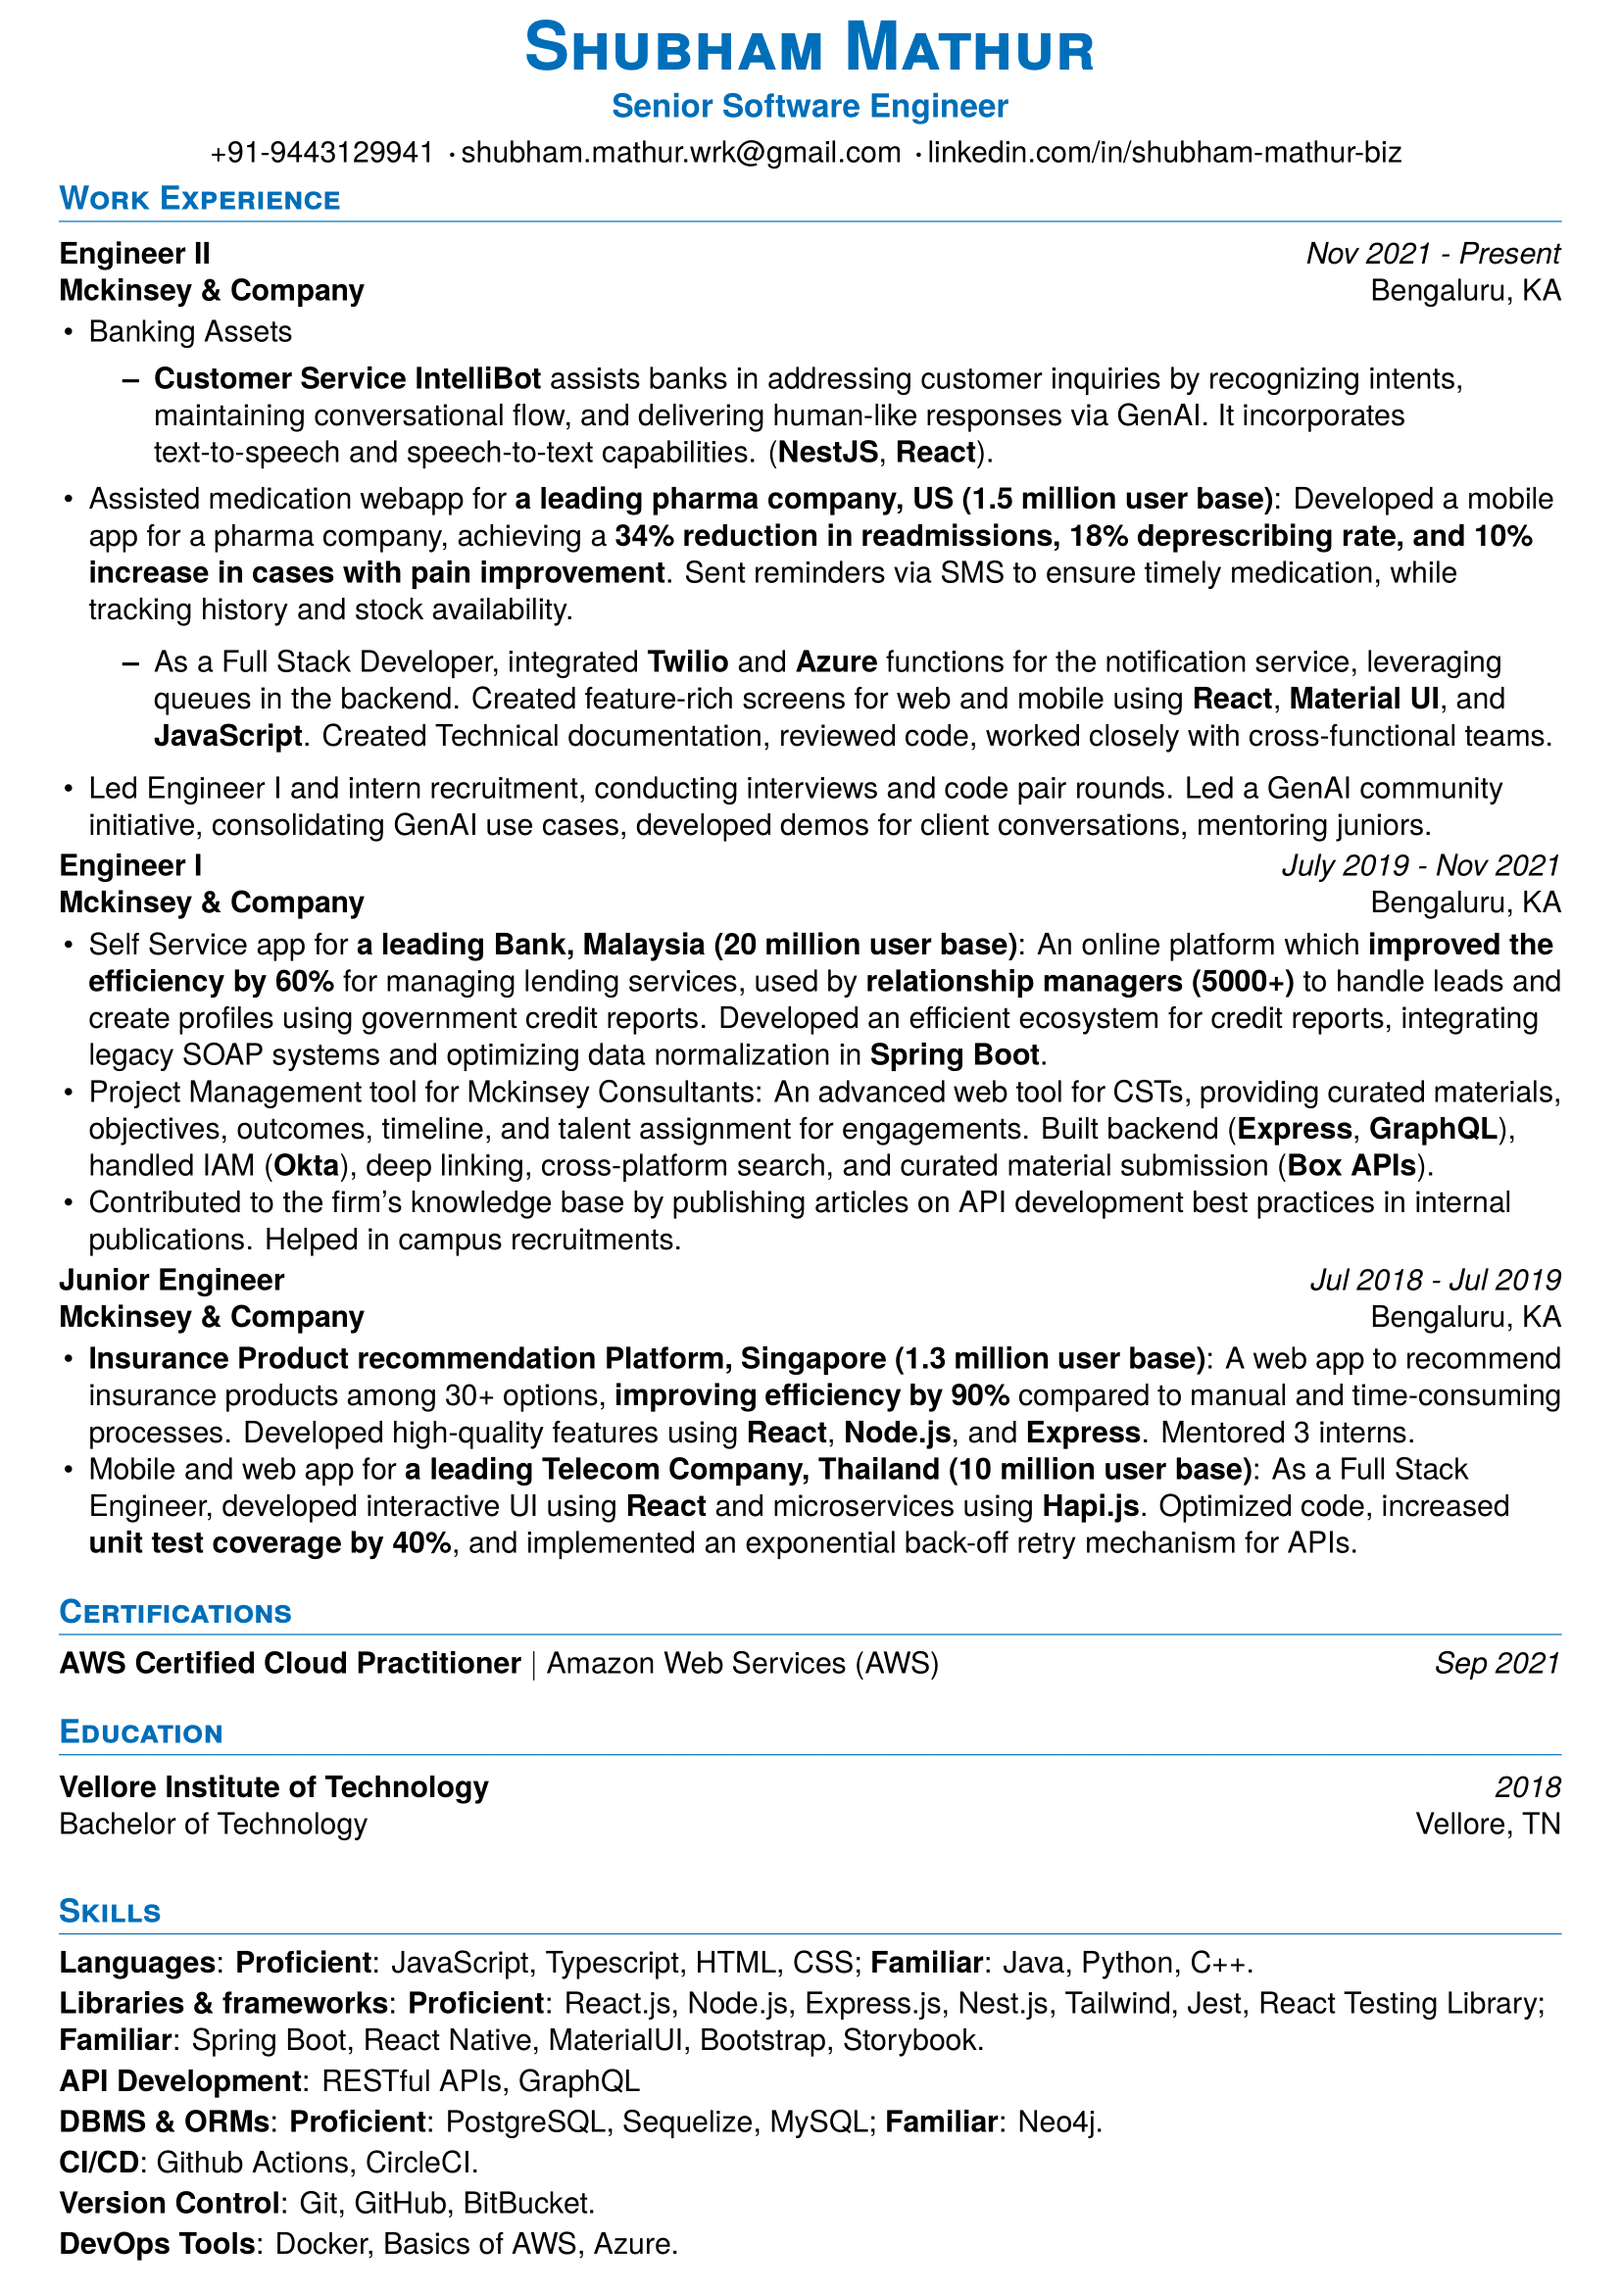
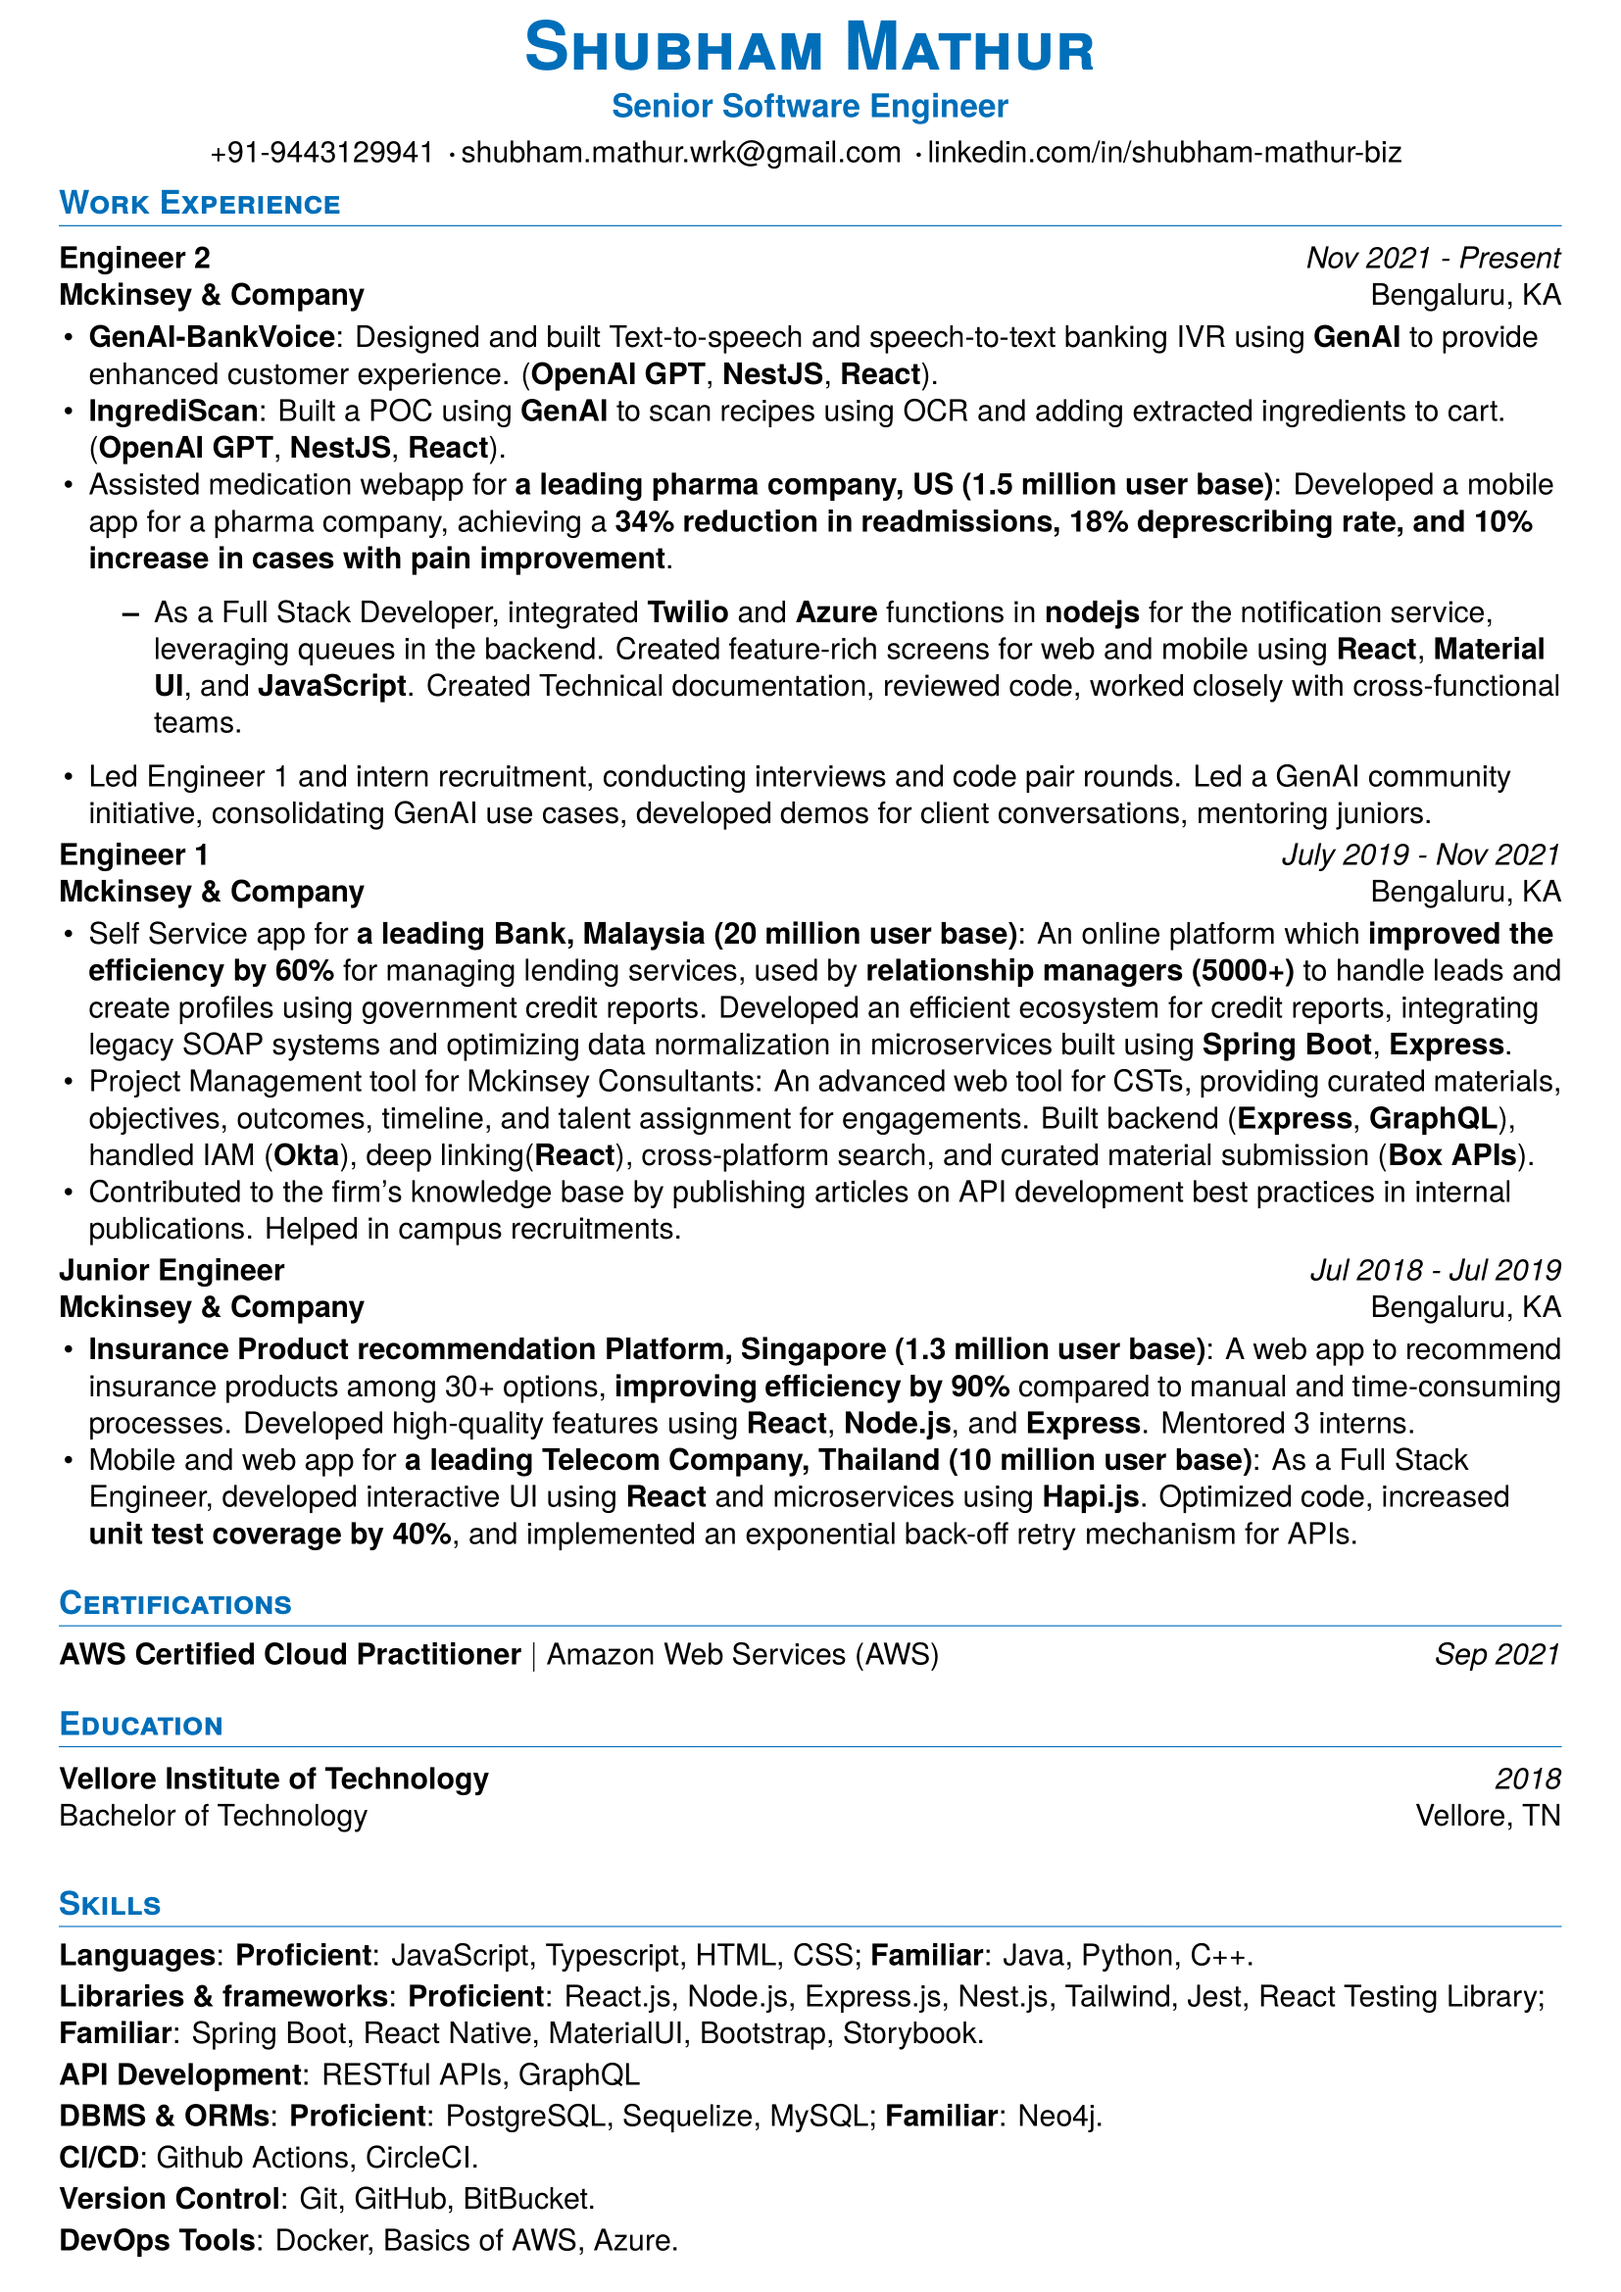
Update resume with GenAI work.

Changed region(s): [[0.0308, 0.0624, 0.9559, 0.9987], [0.8634, 0.7178, 0.9559, 0.8115], [0.8325, 0.8427, 0.9559, 0.8739]]

diff --git a/Shubham Mathur Resume 2023/professional_developer_template/main.tex b/Shubham Mathur Resume 2023/professional_developer_template/main.tex
@@ -18,32 +18,31 @@
 \section{\textcolor{NavyBlue}{Work Experience}}
 
 \WorkExperience
-    {\textbf{Engineer II}} % job title
+    {\textbf{Engineer 2}} % job title
     {\textbf{Mckinsey \& Company}} % company name
     {Nov 2021 - Present} % employment dates
     {Bengaluru, KA} % location
     {
-    \item{Banking Assets}
-        \begin{itemize}
-          \item{\textbf{Customer Service IntelliBot} assists banks in addressing customer inquiries by recognizing intents, maintaining conversational flow, and delivering human-like responses via GenAI. It incorporates text-to-speech and speech-to-text capabilities. (\textbf{NestJS}, \textbf{React}).}
-        \end{itemize}
-    \item{Assisted medication webapp for \textbf{a leading pharma company, US (1.5 million user base)}: Developed a mobile app for a pharma company, achieving a \textbf{34\% reduction in readmissions, 18\% deprescribing rate, and 10\% increase in cases with pain improvement}. Sent reminders via SMS to ensure timely medication, while tracking history and stock availability.}
+    \item{\textbf{GenAI-BankVoice}: Designed and built Text-to-speech and speech-to-text banking IVR using \textbf{GenAI} to provide enhanced customer experience. (\textbf{OpenAI GPT}, \textbf{NestJS}, \textbf{React}).}
+    \item{\textbf{IngrediScan}: Built a POC using \textbf{GenAI} to scan recipes using OCR and adding extracted ingredients to cart. (\textbf{OpenAI GPT}, \textbf{NestJS}, \textbf{React}).}
+    \item{Assisted medication webapp for \textbf{a leading pharma company, US (1.5 million user base)}: Developed a mobile app for a pharma company, achieving a \textbf{34\% reduction in readmissions, 18\% deprescribing rate, and 10\% increase in cases with pain improvement}.}
     
     \begin{itemize}
-        \item{As a Full Stack Developer, integrated \textbf{Twilio} and \textbf{Azure} functions for the notification service, leveraging queues in the backend. Created feature-rich screens for web and mobile using \textbf{React}, \textbf{Material UI}, and \textbf{JavaScript}. Created Technical documentation, reviewed code, worked closely with cross-functional teams.}
+        \item{As a Full Stack Developer, integrated \textbf{Twilio} and \textbf{Azure} functions in \textbf{nodejs} for the notification service, leveraging queues in the backend. Created feature-rich screens for web and mobile using \textbf{React}, \textbf{Material UI}, and \textbf{JavaScript}. Created Technical documentation, reviewed code, worked closely with cross-functional teams.}
 
     \end{itemize}
-        \item Led Engineer I and intern recruitment, conducting interviews and code pair rounds. Led a GenAI community initiative, consolidating GenAI use cases, developed demos for client conversations, mentoring juniors.
+        \item Led Engineer 1 and intern recruitment, conducting interviews and code pair rounds. Led a GenAI community initiative, consolidating GenAI use cases, developed demos for client conversations, mentoring juniors.
     } 
 
 \WorkExperience
-    {\textbf{Engineer I}} % job title
+    {\textbf{Engineer 1}} % job title
     {\textbf{Mckinsey \& Company}} % company name
     {July 2019 - Nov 2021} % employment dates
     {Bengaluru, KA} % location
 {
-    \item Self Service app for \textbf{a leading Bank, Malaysia (20 million user base)}: An online platform which \textbf{improved the efficiency by 60\%} for managing lending services, used by \textbf{relationship managers (5000+)} to handle leads and create profiles using government credit reports. Developed an efficient ecosystem for credit reports, integrating legacy SOAP systems and optimizing data normalization in \textbf{Spring Boot}.
-    \item Project Management tool for Mckinsey Consultants: An advanced web tool for CSTs, providing curated materials, objectives, outcomes, timeline, and talent assignment for engagements. Built backend (\textbf{Express}, \textbf{GraphQL}), handled IAM (\textbf{Okta}), deep linking, cross-platform search, and curated material submission (\textbf{Box APIs}).
+    \item Self Service app for \textbf{a leading Bank, Malaysia (20 million user base)}: An online platform which \textbf{improved the efficiency by 60\%} for managing lending services, used by \textbf{relationship managers (5000+)} to handle leads and create profiles using government credit reports. Developed an efficient ecosystem for credit reports, integrating legacy SOAP systems and optimizing data normalization in microservices 
+ built using \textbf{Spring Boot}, \textbf{Express}.
+    \item Project Management tool for Mckinsey Consultants: An advanced web tool for CSTs, providing curated materials, objectives, outcomes, timeline, and talent assignment for engagements. Built backend (\textbf{Express}, \textbf{GraphQL}), handled IAM (\textbf{Okta}), deep linking(\textbf{React}), cross-platform search, and curated material submission (\textbf{Box APIs}).
     \item Contributed to the firm's knowledge base by publishing articles on API development best practices in internal publications. Helped in campus recruitments.
     }
     
